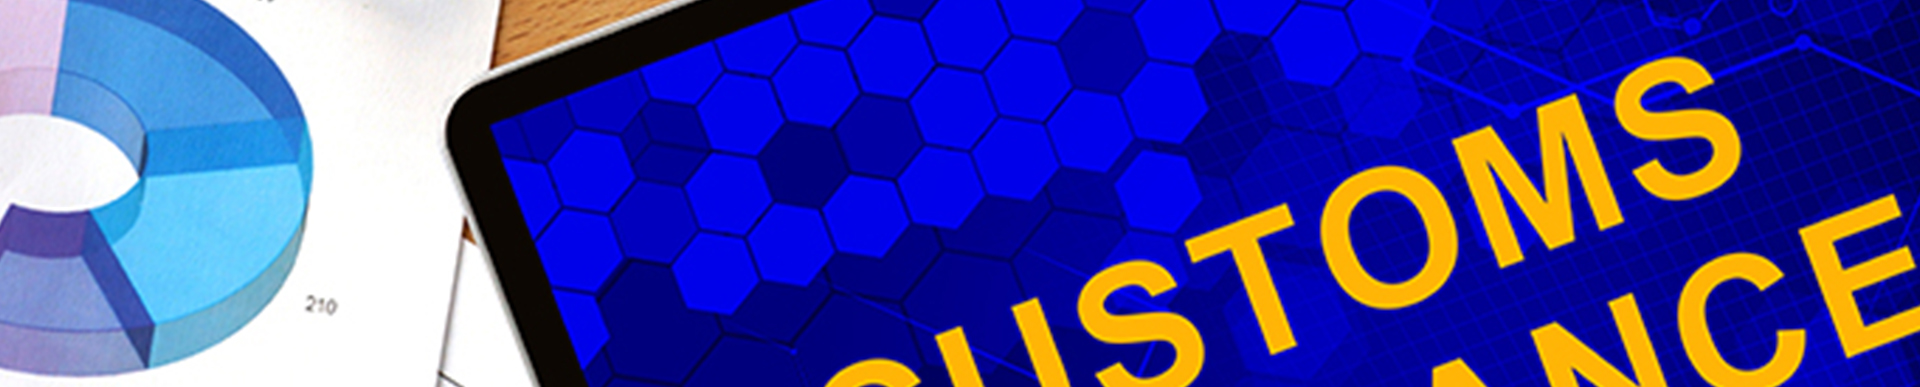
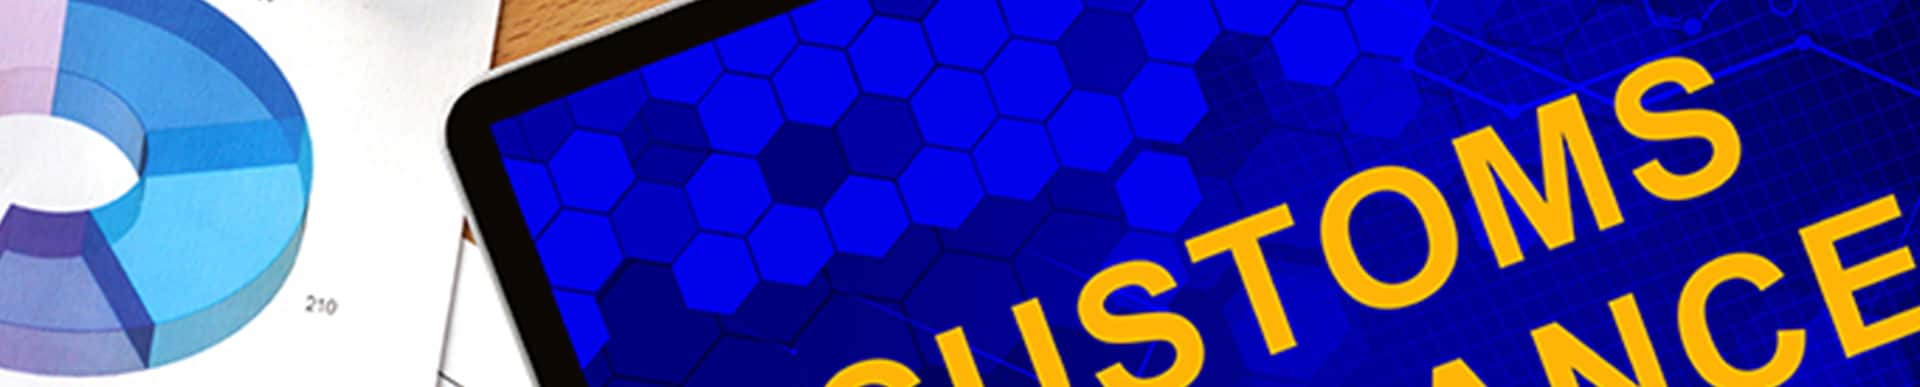
compress img

diff --git a/index.html b/index.html
@@ -179,9 +179,7 @@
                     <div class="carousel-item active">
                         <img width="100%"  src="assets/img/slider/slider-thumb1.png" alt="First Slide">
                     </div>
-                    <div class="carousel-item">
-                        <img width="100%"  src="assets/img/slider/slider-thumb2.png" alt="Second Slide">
-                    </div>
+                    
                 <!-- Carousel controls -->
                 <a class="carousel-control-prev" href="#myCarousel" data-slide="prev">
                     <span class="carousel-control-prev-icon"></span>
